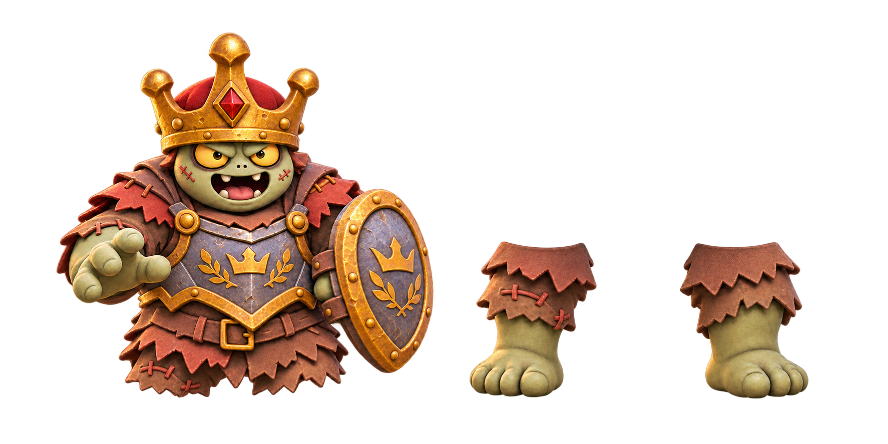
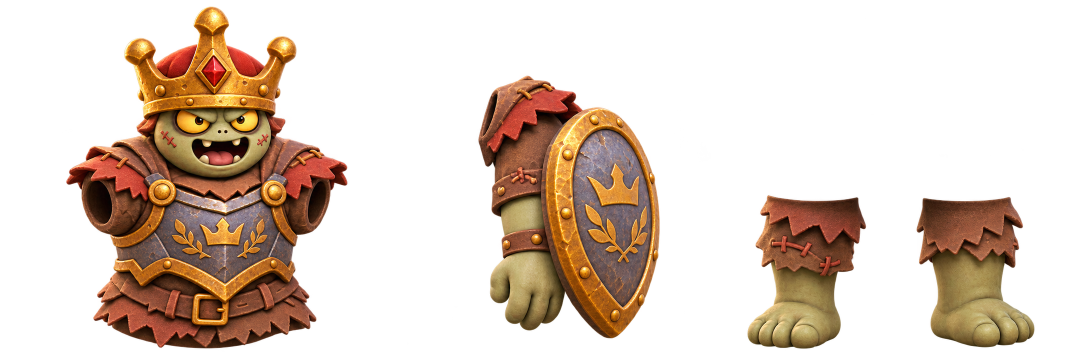
feat: articulate grand boss rig

diff --git a/miniprogram/fortress/zombie-art.ts b/miniprogram/fortress/zombie-art.ts
@@ -24,7 +24,7 @@ export const BOSS_ZOMBIE_PARTS: Readonly<Record<'iron' | 'grand', SpriteAsset>> 
     source: 'docs/visual-audit/enemies/approved-parts/iron-parts-01.png',
     rights: '项目内置 image_gen；已批准铁桶队长母版，运行视觉待验收', approved: true },
   grand: { path: '/character-assets/zombie-grand-parts.png',
-    source: 'docs/visual-audit/enemies/approved-parts/grand-parts-02.png',
+    source: 'docs/visual-audit/enemies/approved-parts/grand-rig-atlas-01.png',
     rights: '项目内置 image_gen；2026-11-11 已批准王冠盾甲母版，运行视觉待验收', approved: true },
 };
 
@@ -34,21 +34,30 @@ export function drawBossZombieParts(
   pose: BossPose = {torsoY: 0, torsoScaleY: 1},
 ): void {
   const grand = kind === 'grand';
-  const sx = image.width / (grand ? 1774 : 2048), sy = image.height / (grand ? 887 : 683);
+  const sx = image.width / (grand ? 2172 : 2048), sy = image.height / (grand ? 724 : 683);
   c.fillStyle = 'rgba(37,62,56,.16)';
   c.beginPath(); c.ellipse(0, 69, 46, 8, 0, 0, Math.PI * 2); c.fill();
   for (const [index, side] of [-1, 1].entries()) {
     const foot = gait.feet[index];
-    const x = grand ? (index === 0 ? 925 : 1340) : (index === 0 ? 960 : 1600);
+    const x = grand ? (index === 0 ? 1430 : 1730) : (index === 0 ? 960 : 1600);
     c.save(); c.translate(side * 22, grand ? 30 : 28); c.rotate(side * foot.lift * .035);
-    c.drawImage(image, x * sx, (grand ? 600 : 370) * sy, (grand ? 290 : 240) * sx, (grand ? 205 : 260) * sy,
+    c.drawImage(image, x * sx, (grand ? 370 : 370) * sy, (grand ? 210 : 240) * sx, (grand ? 345 : 260) * sy,
       -22, 0, 44, (grand ? 42 : 46) + foot.travel * 4 - foot.lift * 7);
     c.restore();
   }
-  c.drawImage(image, (grand ? 100 : 10) * sx, (grand ? 50 : 0) * sy,
-    (grand ? 790 : 740) * sx, (grand ? 760 : 635) * sy,
-    -64 + gait.sway, (grand ? -88 : -70) + gait.bob + pose.torsoY, 128,
-    (grand ? 123 : 110) * pose.torsoScaleY);
+  c.drawImage(image, (grand ? 120 : 10) * sx, (grand ? 0 : 0) * sy,
+    (grand ? 560 : 740) * sx, (grand ? 700 : 635) * sy,
+    -64 + gait.sway, (grand ? -92 : -70) + gait.bob + pose.torsoY, 128,
+    (grand ? 140 : 110) * pose.torsoScaleY);
+  if (grand) {
+    // The new atlas keeps the shield arm independent of the torso. Its pivot
+    // is the shoulder socket, so the wind-up can lean the whole body without
+    // creating a detached shield or a second static arm.
+    c.save(); c.translate(37 + gait.sway, -38 + gait.bob + pose.torsoY);
+    c.rotate(gait.feet[1].travel * .04);
+    c.drawImage(image, 900 * sx, 135 * sy, 430 * sx, 575 * sy, -2, -8, 66, 105 * pose.torsoScaleY);
+    c.restore();
+  }
 }
 
 /** Three separate atlas parts, calibrated in normalized 2048 × 683 atlas coordinates.

diff --git a/docs/visual-audit/enemies/approved-parts/README.md b/docs/visual-audit/enemies/approved-parts/README.md
@@ -2,9 +2,9 @@
 
 2026-11-11，#92 / #98。普通苹果僵尸和铁桶队长依据已批准的 [内部构图](../../battlefield-overhaul/interior-study/interior-01.png) 与 [风格参考](../../concepts/style-study-01.png) 制作。最终 Boss 的 [王冠盾甲代表图](grand-boss-study-01.png) 经用户明确“认可，继续制作正式部件”后制作。不使用旧粗糙身体作为新位图母版。
 
-全部由内置 image_gen 生成。准确提示词为本目录 `*-prompt.txt`；三张运行 atlas 的母版、引用、尺寸、字节及 SHA256 见 [manifest.json](manifest.json)。最终 Boss 第一版 `grand-parts-01.png` 左缘裁切，仅作迭代记录；运行使用修正留白的 `grand-parts-02.png`。修正请求曾连接失败一次，原请求重试后成功。没有新制作堡垒摧毁图。
+全部由内置 image_gen 生成。准确提示词为本目录 `*-prompt.txt`；三张运行 atlas 的母版、引用、尺寸、字节及 SHA256 见 [manifest.json](manifest.json)。最终 Boss 的早期 `grand-parts-01.png` 左缘裁切，修正留白的 `grand-parts-02.png` 均只作迭代记录；运行使用新的可动 `grand-rig-atlas-01.png`。修正请求曾连接失败一次，原请求重试后成功。没有新制作堡垒摧毁图。
 
-运行 atlas 存放于 `miniprogram/character-assets/zombie-{apple,iron,grand}-parts.png`。保留生成 alpha，对整张 atlas 统一缩小，随后 Canvas 按标定区域取身体和两腿。不是无损编码；没有程序补画、去背或修补角色像素。旧苹果图和旧 Boss 代码留作兼容，不作为制作母版。
+运行 atlas 存放于 `miniprogram/character-assets/zombie-{apple,iron,grand}-parts.png`。保留生成 alpha，对整张 atlas 统一缩小；Canvas 按标定区域绘制身体和腿部，王冠 Boss 另绘制以肩部为轴的盾臂。不是无损编码；没有程序补画、去背或修补角色像素。旧苹果图和旧 Boss 代码留作兼容，不作为制作母版。
 
 普通苹果怪使用苹果壳头盔直接表达身份，取消遮住头盔的重复水果徽章，保留血条。两类 Boss 有独立身体，水果、动物及其他词条均在头顶保留各自标识；移除覆盖在新身体上的旧几何桶帽、王冠和护甲。两腿沿已有距离步态运动，接敌按现有倒计时站稳；沿用现有前探、受击、预警、死亡和退场。没有改变攻击时点、伤害、碰撞、奖励、免疫或入场安排。
 
@@ -16,7 +16,7 @@
 
 项目检查、533 项全量测试及 64 项定向回归通过。新增回归覆盖两类 Boss 解码等待/失败重试、动物/水果 Boss 分流、词条保留、无苹果无宠物旧主角场景的 Boss 分包依赖、渲染不改状态，以及普通苹果身份不重复覆盖。
 
-源码主包约 1785 KiB，角色包约 1925 KiB；单张解码约 1.50 MiB，三张合计约 4.50 MiB RGBA，非设备实测峰值。角色包剩余约 123 KiB，后续扩展须重新规划分包。源码预算不是微信编译包体或网络耗时。
+源码主包约 1796 KiB，角色包约 2043 KiB（2048 KiB 上限）；运行图集的解码内存并非设备实测峰值。角色包仅剩约 5 KiB，后续角色资源必须重新规划分包。源码预算不是微信编译包体或网络耗时。
 
 ## 仍待完成
 
@@ -43,3 +43,26 @@
 引用的旧 `zombie-apple-parts.png` 运行副本，角色分包源码预算为 2029.1 KiB / 2048 KiB。
 两张母版、提示词、尺寸和哈希在 manifest 中可追溯。自动化与离屏审样不替代
 微信编译、真机或用户视觉验收；Boss 和待审特殊敌人不受本项影响。
+
+### 2026-11-11 王冠 Boss 盾臂部件
+
+在用户已认可的 `grand-boss-study-01.png` 母版授权内，新增独立的 [王冠 Boss 持盾前臂与盾牌](grand-shield-arm-01.png)。它保留已批准造型中的绿色皮肤、缝补袖口、蓝灰盾面与金色王冠/月桂纹样，并且为透明 RGBA PNG（1254×1254）；完整提示词、来源哈希和作用域见 `grand-shield-arm-01-prompt.txt` 与 `manifest.json`。
+
+为避免与现有完整身体 atlas 的盾牌重复，新增配套的[无盾躯干源图](grand-torso-rig-study-01.png)：保留王冠、头部、胸甲、腰布和左侧前伸手臂，右肩为独立盾臂的接点。两张图均由已批准母版派生，具体提示词、透明输出和哈希均在清单中可追溯。
+
+两张图目前都是独立源部件：尚未裁切、缩放、加入分包或接入 Canvas，也没有改变盾牌、冲击波、碰撞、伤害、时序或奖励。后续需要先依据现有身体 atlas 标定肩部转轴并在实际尺寸审样后，再进行运行时接入；不能将这些源图或离线检查记作动态、微信或真机验收通过。
+
+首次把两张源图按整图等比缩放、尝试与现有腿部 atlas 合成的实际尺寸审样已拒绝：盾牌与右肩脱节，独立腿部也与新躯干不连续，不符合 #99 的自然动作要求。该试验未保留运行资源或代码；后续须先制作与现有 atlas 同坐标的躯干/盾臂图集并完成肩、髋和脚底标定，不能以当前整图缩放硬接入。
+
+### 2026-11-11 王冠 Boss 可动图集接入
+
+在认可的 `grand-boss-study-01.png` 新母版基础上，新增
+`grand-rig-atlas-01.png`：同一透明星图集分离无臂躯干、可绕右肩旋转的盾臂及两条
+落脚腿，源图、提示词、运行编码和 SHA-256 均记录在 `manifest.json`。旧的
+`grand-parts-02.png` 不再作为运行 atlas；先前两个不匹配的独立源部件继续作为拒绝
+审样保留，不会与新躯干硬拼。
+
+Canvas 现在分别绘制躯干、两腿和盾臂；盾臂以肩口为枢轴，步态/蓄力沿用既有正式
+模拟时钟，不新增招式、计时、伤害、碰撞或奖励。`runtime/grand-walk-{light,dark}.png`
+展示八相位浅深底实际尺寸审样。该审样通过只是离屏静态序列：还需真实 Boss 波次、
+微信模拟器、真机和用户视觉验收，不能作为整场或设备验收结论。

diff --git a/docs/visual-audit/enemies/special-studies/README.md b/docs/visual-audit/enemies/special-studies/README.md
@@ -12,4 +12,6 @@
 
 五张均已检查完整主体和透明通道；非零 alpha 边界触及画布边缘，正式部件还需检查低透明度残留，不可直接用整图边界作为裁切或碰撞依据。飞行翼尖及巨型手部留白偏紧，正式拆件时需扩大边距。当前统一用苹果帽展示词条身份；水果/动物词条机制不变，后续不能将所有词条都改成苹果。
 
+为便于横向审样，新增 [apple-special-enemies-study-01.png](apple-special-enemies-study-01.png)：它将五个已提出的职责轮廓组合为一张透明候选板。该图由 `style-study-01` 与已批准苹果僵尸外观参考生成，来源哈希记录在清单中；它是审样对照，不是五张独立代表图的替代品，也未接入运行时。
+
 状态：待用户审查；未制作正式动作部件，未接入游戏。布翼和背罐是本次造型提案，不代表新增玩法。当前图片不证明小尺寸识别、动画质量、碰撞或真机验收。
